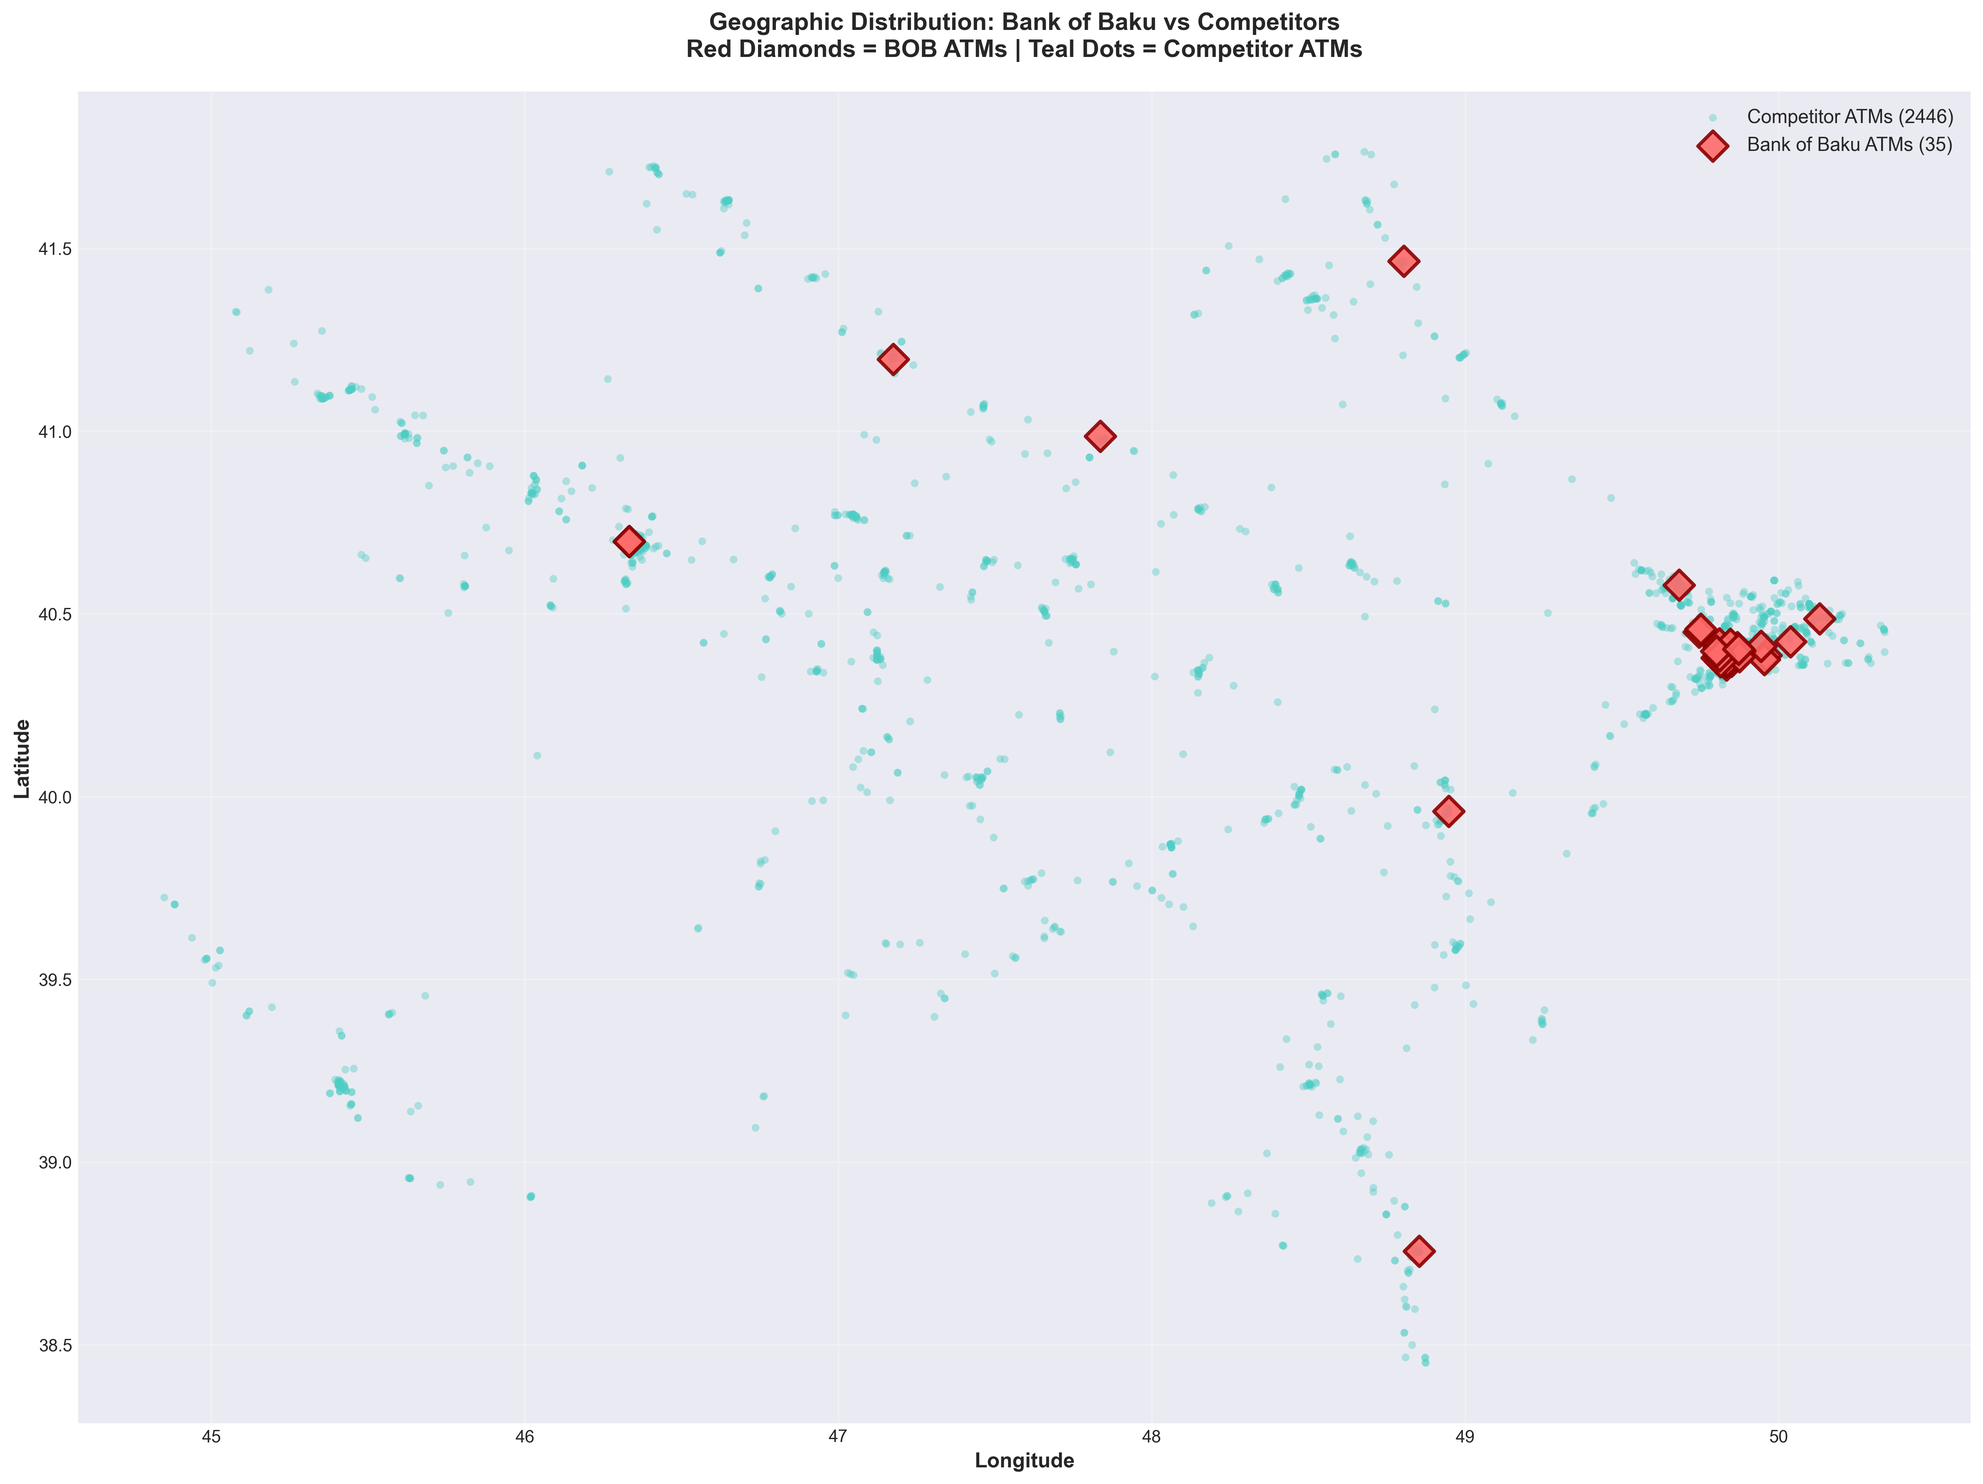
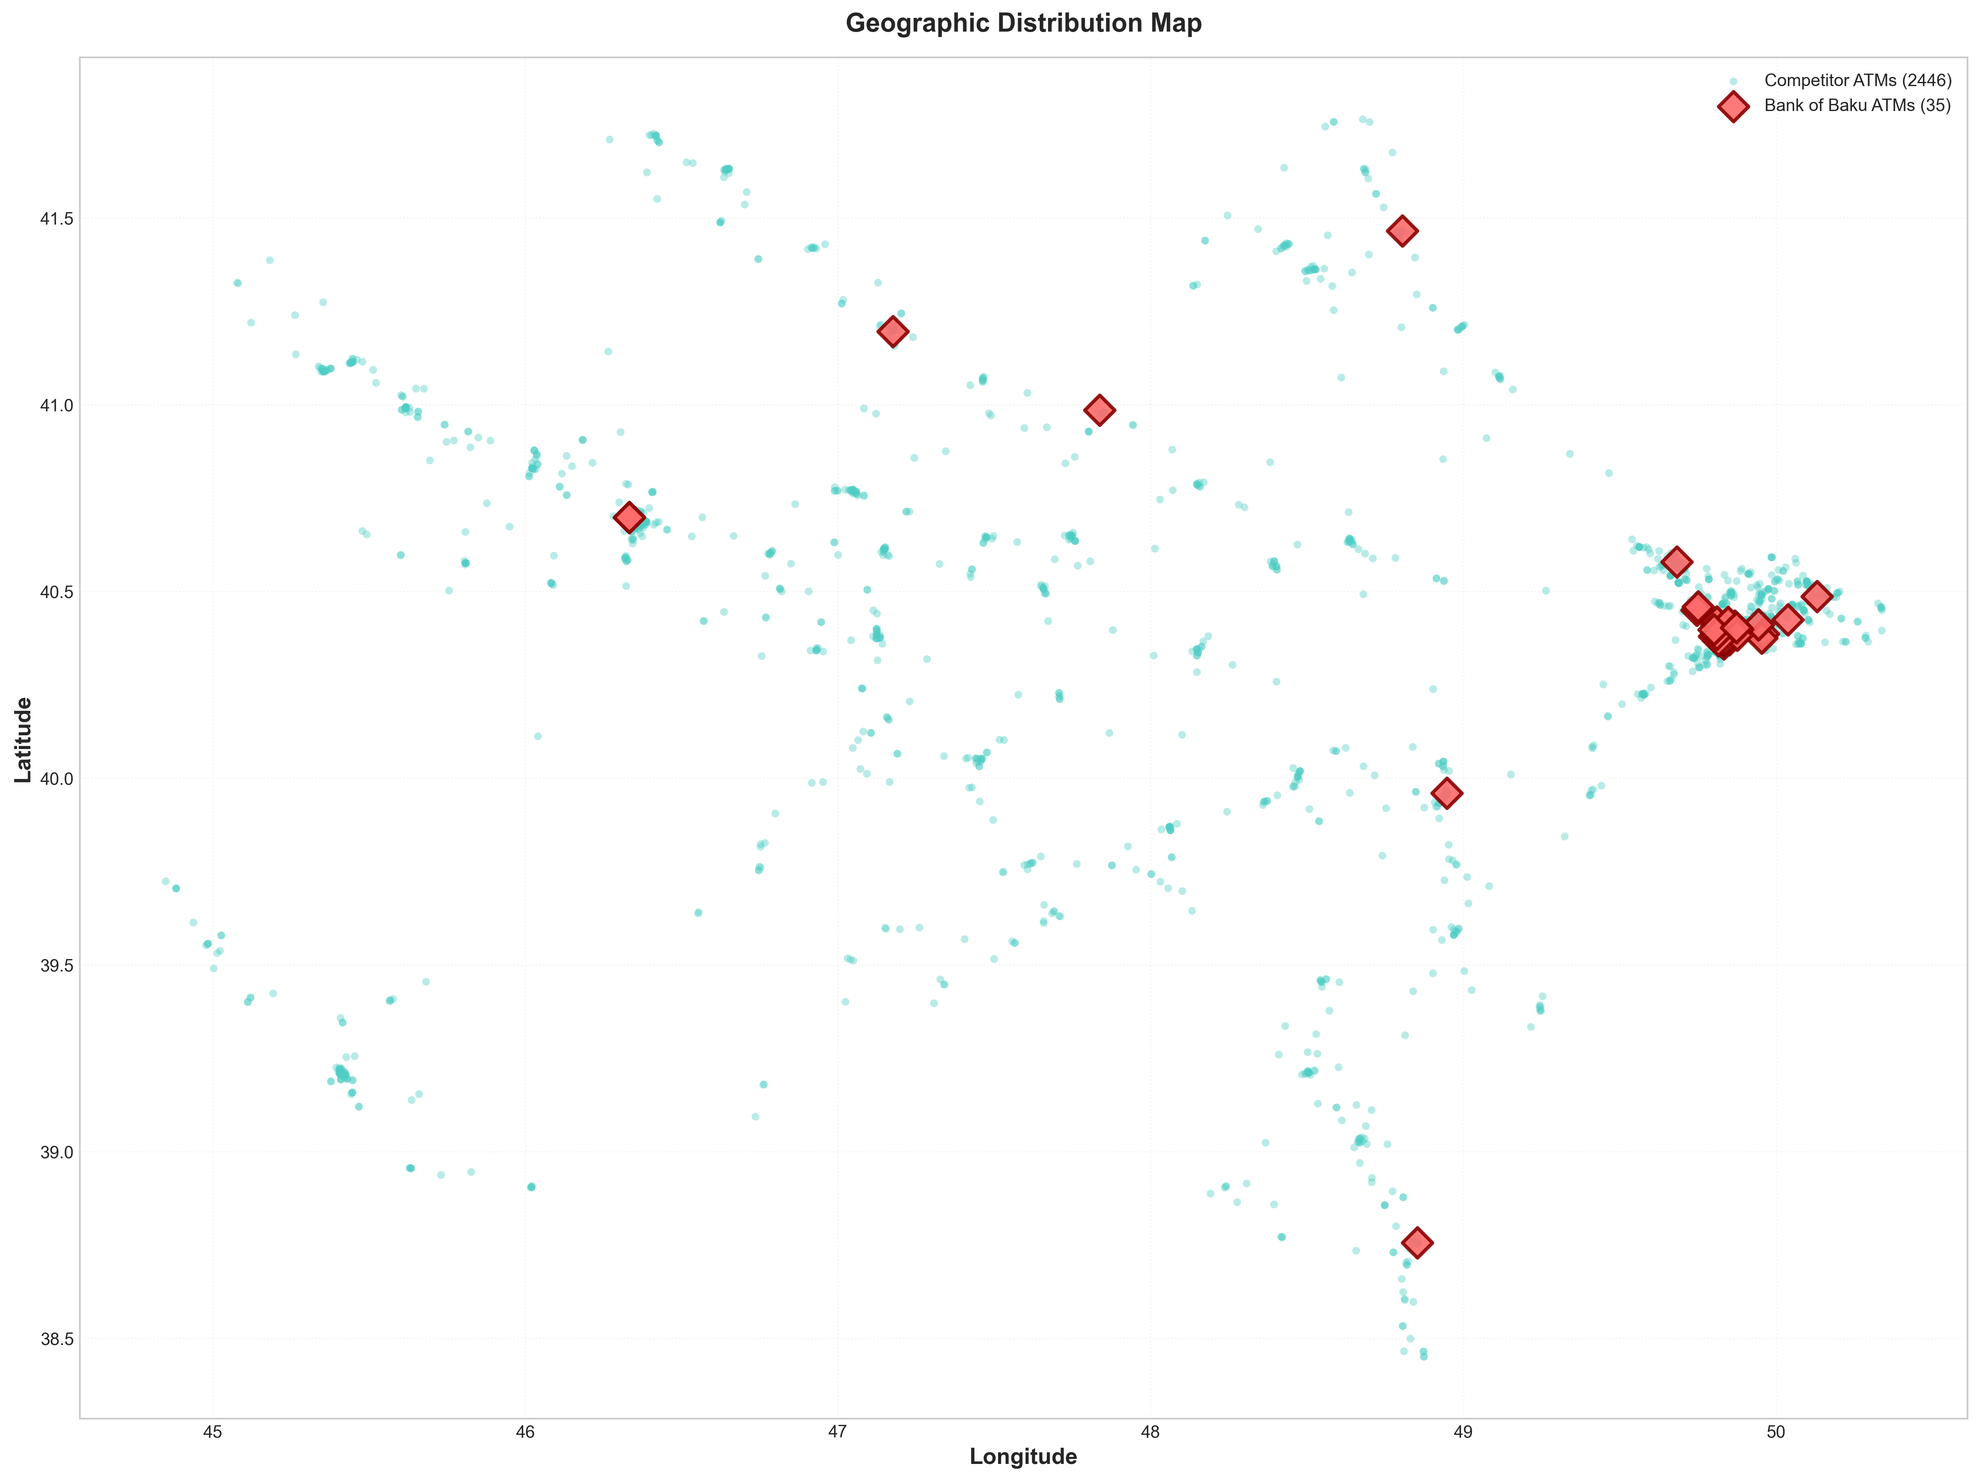
init
Source: https://github.com/GameHelix/space_invaders/commit/c22dd0ad6fc6d7ff413bb4c23b452937064a5800

diff --git a/earlier/GameHelix/space_invaders/scripts/analyze_for_bob.py b/earlier/GameHelix/space_invaders/scripts/analyze_for_bob.py
@@ -682,9 +682,9 @@ def chart8_competitor_proximity_analysis(data: List[Dict]) -> None:
         ax1.text(width + 0.5, bar.get_y() + bar.get_height()/2,
                 f'{dist:.1f} km', ha='left', va='center', fontweight='bold', fontsize=10)
 
-    ax1.set_xlabel('Average Distance to Nearest BOB ATM (km)', fontsize=11, fontweight='bold')
-    ax1.set_title('How Close Are Competitors to BOB?\nAverage Distance per Bank', fontsize=12, fontweight='bold')
-    ax1.grid(axis='x', alpha=0.3)
+    ax1.set_xlabel('Avg Distance to BOB (km)', fontsize=12, fontweight='bold')
+    ax1.set_title('Competitor Proximity to BOB', fontsize=13, fontweight='bold')
+    ax1.grid(axis='x', alpha=0.2, linestyle='--')
 
     # Right: Number of competitor ATMs within 1km of BOB
     close_counts = {}
@@ -714,9 +714,9 @@ def chart8_competitor_proximity_analysis(data: List[Dict]) -> None:
         ax2.text(width + 1, bar.get_y() + bar.get_height()/2,
                 f'{count}', ha='left', va='center', fontweight='bold', fontsize=10)
 
-    ax2.set_xlabel('Number of ATMs Within 1km of BOB', fontsize=11, fontweight='bold')
-    ax2.set_title('Direct Competition Intensity\nCompetitor ATMs Within 1km of BOB', fontsize=12, fontweight='bold')
-    ax2.grid(axis='x', alpha=0.3)
+    ax2.set_xlabel('ATMs Within 1km of BOB', fontsize=12, fontweight='bold')
+    ax2.set_title('Direct Competition Count', fontsize=13, fontweight='bold')
+    ax2.grid(axis='x', alpha=0.2, linestyle='--')
 
     plt.tight_layout()
     plt.savefig('charts/8_competitor_proximity_analysis.png', dpi=300, bbox_inches='tight')
@@ -771,36 +771,33 @@ def chart9_location_priority_matrix(data: List[Dict]) -> None:
     bob_dists = [loc['bob_distance'] for loc in scored_locations]
     comp_dens = [loc['competitor_density'] for loc in scored_locations]
 
-    scatter = ax.scatter(bob_dists, comp_dens, c=bob_dists, s=100, alpha=0.6,
-                        cmap='RdYlGn', edgecolors='black', linewidths=0.5)
+    scatter = ax.scatter(bob_dists, comp_dens, c=bob_dists, s=80, alpha=0.5,
+                        cmap='RdYlGn', edgecolors='black', linewidths=0.3)
 
-    plt.colorbar(scatter, ax=ax, label='Distance from BOB (km)')
+    cbar = plt.colorbar(scatter, ax=ax, label='Distance (km)')
+    cbar.ax.tick_params(labelsize=10)
 
-    # Add quadrant labels
-    ax.axhline(y=10, color='gray', linestyle='--', alpha=0.5)
-    ax.axvline(x=5, color='gray', linestyle='--', alpha=0.5)
+    # Add quadrant lines
+    ax.axhline(y=10, color='gray', linestyle='--', alpha=0.3, linewidth=2)
+    ax.axvline(x=5, color='gray', linestyle='--', alpha=0.3, linewidth=2)
 
-    ax.text(8, 18, 'HIGH PRIORITY\nHigh Demand\nNo BOB Coverage',
-            fontsize=11, fontweight='bold', ha='center',
-            bbox=dict(boxstyle='round', facecolor='lightgreen', alpha=0.8))
+    # Simplified quadrant labels
+    ax.text(8, 18, 'HIGH\nPRIORITY', fontsize=10, fontweight='bold', ha='center',
+            bbox=dict(boxstyle='round', facecolor='lightgreen', alpha=0.7, pad=0.5))
 
-    ax.text(2, 18, 'COMPETITIVE\nHigh Demand\nBOB Present',
-            fontsize=11, fontweight='bold', ha='center',
-            bbox=dict(boxstyle='round', facecolor='yellow', alpha=0.8))
+    ax.text(2, 18, 'COMPETITIVE', fontsize=10, fontweight='bold', ha='center',
+            bbox=dict(boxstyle='round', facecolor='yellow', alpha=0.7, pad=0.5))
 
-    ax.text(8, 2, 'LOW PRIORITY\nLow Demand\nNo BOB Coverage',
-            fontsize=11, fontweight='bold', ha='center',
-            bbox=dict(boxstyle='round', facecolor='lightcoral', alpha=0.8))
+    ax.text(8, 2, 'LOW\nPRIORITY', fontsize=10, fontweight='bold', ha='center',
+            bbox=dict(boxstyle='round', facecolor='lightcoral', alpha=0.7, pad=0.5))
 
-    ax.text(2, 2, 'SATURATED\nLow Demand\nBOB Present',
-            fontsize=11, fontweight='bold', ha='center',
-            bbox=dict(boxstyle='round', facecolor='lightgray', alpha=0.8))
+    ax.text(2, 2, 'SATURATED', fontsize=10, fontweight='bold', ha='center',
+            bbox=dict(boxstyle='round', facecolor='lightgray', alpha=0.7, pad=0.5))
 
-    ax.set_xlabel('Distance to Nearest BOB ATM (km)', fontsize=12, fontweight='bold')
-    ax.set_ylabel('Number of Nearby Competitors (within 1km)', fontsize=12, fontweight='bold')
-    ax.set_title('Strategic Location Priority Matrix\nHigh Demand + No BOB = Best Opportunities',
-                fontsize=14, fontweight='bold', pad=20)
-    ax.grid(True, alpha=0.3)
+    ax.set_xlabel('Distance to BOB (km)', fontsize=13, fontweight='bold')
+    ax.set_ylabel('Competitor Density (within 1km)', fontsize=13, fontweight='bold')
+    ax.set_title('Location Priority Matrix', fontsize=15, fontweight='bold', pad=15)
+    ax.grid(True, alpha=0.2, linestyle=':')
 
     plt.tight_layout()
     plt.savefig('charts/9_location_priority_matrix.png', dpi=300, bbox_inches='tight')
@@ -862,25 +859,14 @@ def chart10_market_penetration_efficiency(data: List[Dict]) -> None:
 
     # Add bank labels
     for bank, count, spacing in zip(banks, counts, spacings):
-        label = 'BOB' if bank == 'Bank of Baku' else bank.replace('Bank', '').strip()[:10]
+        label = 'BOB' if bank == 'Bank of Baku' else bank.replace('Bank', '').replace('Respublika', 'Resp').strip()[:8]
         ax.annotate(label, (count, spacing), fontsize=9, fontweight='bold',
                    ha='center', va='center')
 
-    ax.set_xlabel('Number of ATMs', fontsize=12, fontweight='bold')
-    ax.set_ylabel('Average Spacing Between ATMs (km)', fontsize=12, fontweight='bold')
-    ax.set_title('Market Penetration Efficiency Analysis\nBubble Size = Coverage Score (ATMs per km²)',
-                fontsize=14, fontweight='bold', pad=20)
-    ax.grid(True, alpha=0.3)
-
-    # Add insight box
-    bob_spacing = bank_metrics.get('Bank of Baku', {}).get('avg_spacing', 0)
-    best_spacing = min(spacings)
-    insight = f"BOB Spacing: {bob_spacing:.1f} km\nBest in Market: {best_spacing:.1f} km\n"
-    insight += "Lower spacing = Better coverage density"
-
-    ax.text(0.02, 0.98, insight, transform=ax.transAxes,
-            bbox=dict(boxstyle='round', facecolor='wheat', alpha=0.9),
-            verticalalignment='top', fontsize=10, fontweight='bold')
+    ax.set_xlabel('Total ATMs', fontsize=13, fontweight='bold')
+    ax.set_ylabel('Avg Spacing (km)', fontsize=13, fontweight='bold')
+    ax.set_title('Market Penetration Efficiency', fontsize=15, fontweight='bold', pad=15)
+    ax.grid(True, alpha=0.2, linestyle=':')
 
     plt.tight_layout()
     plt.savefig('charts/10_market_penetration_efficiency.png', dpi=300, bbox_inches='tight')
@@ -934,22 +920,23 @@ def chart11_competitor_coexistence_analysis(data: List[Dict]) -> None:
 
     im = ax.imshow(coexistence_matrix, cmap='YlOrRd', aspect='auto')
 
-    # Set ticks and labels
+    # Set ticks and labels - shortened names
+    bank_labels = [b.replace('Bank', '').replace('Respublika', 'Resp').strip()[:12] for b in banks]
     ax.set_xticks(np.arange(len(banks)))
     ax.set_yticks(np.arange(len(banks)))
-    ax.set_xticklabels([b.replace('Bank', '').strip()[:15] for b in banks], rotation=45, ha='right')
-    ax.set_yticklabels([b.replace('Bank', '').strip()[:15] for b in banks])
+    ax.set_xticklabels(bank_labels, rotation=45, ha='right', fontsize=10)
+    ax.set_yticklabels(bank_labels, fontsize=10)
 
-    # Add values
+    # Add values only if significant
     for i in range(len(banks)):
         for j in range(len(banks)):
-            if i != j:
-                text = ax.text(j, i, int(coexistence_matrix[i, j]),
-                             ha="center", va="center", color="black", fontsize=9)
+            if i != j and coexistence_matrix[i, j] > 5:
+                ax.text(j, i, int(coexistence_matrix[i, j]),
+                       ha="center", va="center", color="white", fontsize=9, fontweight='bold')
 
-    plt.colorbar(im, ax=ax, label='Number of Co-located ATMs')
-    ax.set_title(f'Competitor Co-existence Analysis\nATMs Within {threshold}km of Each Other',
-                fontsize=14, fontweight='bold', pad=20)
+    cbar = plt.colorbar(im, ax=ax, label='Co-locations')
+    cbar.ax.tick_params(labelsize=10)
+    ax.set_title(f'Competitor Co-location Matrix ({threshold}km)', fontsize=15, fontweight='bold', pad=15)
 
     plt.tight_layout()
     plt.savefig('charts/11_competitor_coexistence_analysis.png', dpi=300, bbox_inches='tight')
@@ -1035,19 +1022,18 @@ def chart12_expansion_roi_ranking(data: List[Dict]) -> None:
         ax.text(width + 1, bar.get_y() + bar.get_height()/2,
                f'{score:.0f}', ha='left', va='center', fontweight='bold', fontsize=8)
 
-    ax.set_xlabel('ROI Score (0-100)', fontsize=12, fontweight='bold')
-    ax.set_title('Top 30 Expansion Locations by ROI Score\nScoring: Gap (30%) + Demand (40%) + Retail (30%)',
-                fontsize=14, fontweight='bold', pad=20)
-    ax.grid(axis='x', alpha=0.3)
+    ax.set_xlabel('ROI Score', fontsize=13, fontweight='bold')
+    ax.set_title('Top 30 Expansion Locations (ROI Ranked)', fontsize=15, fontweight='bold', pad=15)
+    ax.grid(axis='x', alpha=0.2, linestyle='--')
 
     # Legend
     from matplotlib.patches import Patch
     legend_elements = [
-        Patch(facecolor='#2ECC71', label='Excellent (70-100)'),
+        Patch(facecolor='#2ECC71', label='Excellent (70+)'),
         Patch(facecolor='#F39C12', label='Good (50-69)'),
         Patch(facecolor='#E74C3C', label='Fair (<50)')
     ]
-    ax.legend(handles=legend_elements, loc='lower right')
+    ax.legend(handles=legend_elements, loc='lower right', fontsize=10, framealpha=0.95, edgecolor='black')
 
     plt.tight_layout()
     plt.savefig('charts/12_expansion_roi_ranking.png', dpi=300, bbox_inches='tight')

diff --git a/earlier/GameHelix/space_invaders/README.md b/earlier/GameHelix/space_invaders/README.md
@@ -187,6 +187,139 @@ These 20 locations represent immediate partnership opportunities that would sign
 
 ---
 
+## 8. Competitor Proximity Analysis
+
+### Understanding Direct Competition
+
+![Competitor Proximity Analysis](charts/8_competitor_proximity_analysis.png)
+
+This dual-panel analysis reveals BOB's competitive positioning:
+
+**Left Panel - Average Distance to BOB:**
+Shows how far each competitor's ATMs are from the nearest BOB location on average. Higher distances indicate markets where BOB has no presence.
+
+**Right Panel - Direct Competition Count:**
+Shows how many competitor ATMs are within 1km of BOB locations, indicating direct head-to-head competition intensity.
+
+**Key Insights:**
+- Identifies which competitors BOB directly competes with
+- Reveals which banks have extensive coverage in areas BOB doesn't serve
+- Shows competitive intensity around existing BOB locations
+- Helps prioritize whether to strengthen existing locations or expand to new areas
+
+---
+
+## 9. Strategic Location Priority Matrix
+
+### Data-Driven Prioritization Framework
+
+![Location Priority Matrix](charts/9_location_priority_matrix.png)
+
+This scatter plot uses a 4-quadrant framework to prioritize expansion locations:
+
+**Axes:**
+- **X-Axis**: Distance from nearest BOB ATM (coverage gap)
+- **Y-Axis**: Number of nearby competitors (proven demand)
+
+**Quadrants:**
+1. **HIGH PRIORITY** (Top-Right): Far from BOB + High competitor density = Best opportunities
+2. **COMPETITIVE** (Top-Left): Near BOB + High density = Strengthen existing presence
+3. **LOW PRIORITY** (Bottom-Right): Far from BOB + Low density = Unproven markets
+4. **SATURATED** (Bottom-Left): Near BOB + Low density = Already covered
+
+**Strategic Value:**
+- Mathematically ranks 500+ locations by expansion potential
+- Green zones = highest ROI opportunities
+- Avoids low-demand areas that may not justify ATM deployment costs
+- Balances market coverage with proven customer demand
+
+---
+
+## 10. Market Penetration Efficiency
+
+### Coverage Density Comparison
+
+![Market Penetration Efficiency](charts/10_market_penetration_efficiency.png)
+
+This bubble chart analyzes how efficiently each bank covers the market:
+
+**Metrics:**
+- **X-Axis**: Total number of ATMs (volume)
+- **Y-Axis**: Average spacing between ATMs (density)
+- **Bubble Size**: Coverage efficiency score (ATMs per km²)
+
+**Key Findings:**
+- **Lower Y-values** = Better coverage density (ATMs closer together)
+- **Larger bubbles** = More efficient market penetration
+- Shows if BOB's ATMs are too spread out or optimally clustered
+- Reveals competitors' deployment strategies
+
+**BOB's Position:**
+With only 35 ATMs, BOB likely has high spacing (spread thin), while leaders like Kapital Bank and ABB Bank have achieved dense, efficient coverage in key markets.
+
+**Actionable Insight:**
+Focus on clustering new ATMs in high-value areas rather than spreading thinly across the country. Build density in 3-5 key cities before expanding regionally.
+
+---
+
+## 11. Competitor Co-location Matrix
+
+### Market Validation Through Competitor Behavior
+
+![Competitor Co-location Analysis](charts/11_competitor_coexistence_analysis.png)
+
+This heatmap reveals which competitors tend to co-locate (within 500m), indicating validated high-demand areas:
+
+**How to Read:**
+- Numbers show how many times each pair of banks co-locate
+- **Hot spots** (darker red, higher numbers) = multiple banks see opportunity
+- When 3+ banks cluster, demand is strongly validated
+
+**Strategic Application:**
+- **Follow the leaders**: Where Kapital Bank + ABB Bank + others cluster = proven market
+- Reduces risk by targeting already-validated locations
+- Identifies "banking districts" with high transaction volume
+- Shows competitive dynamics (who competes with whom)
+
+**BOB Strategy:**
+Target locations where 3+ competitors co-exist. These areas have:
+- Proven customer demand
+- High transaction volumes
+- Established banking behavior
+- Lower market education needed
+
+---
+
+## 12. Top 30 Expansion Locations (ROI Ranked)
+
+### Weighted Scoring Model for Deployment Priority
+
+![ROI Ranking](charts/12_expansion_roi_ranking.png)
+
+This chart provides an **actionable ranked list** using a weighted scoring system:
+
+**Scoring Formula (0-100):**
+- **30% Weight**: Coverage Gap (distance from BOB)
+- **40% Weight**: Proven Demand (competitor density within 1km)
+- **30% Weight**: Retail Proximity (foot traffic potential)
+
+**Color Coding:**
+- 🟢 **Green (70-100)**: Excellent opportunities - deploy immediately
+- 🟠 **Orange (50-69)**: Good opportunities - Phase 2 targets
+- 🔴 **Red (<50)**: Fair opportunities - lower priority
+
+**How This Differs from Chart 7:**
+- Chart 7: Simple distance ranking (retail focus)
+- Chart 12: **Multi-factor ROI score** combining gap + demand + retail
+
+**Immediate Action:**
+The top 10-15 locations on this chart should be BOB's Phase 1 deployment targets. These locations offer the optimal combination of:
+- Unserved by BOB (won't cannibalize existing ATMs)
+- Served by competitors (proven customer demand)
+- Near retail partners (deployment cost efficiency)
+
+---
+
 ## Strategic Recommendations
 
 ### 1. 🎯 IMMEDIATE PRIORITY: Fill Coverage Gaps
@@ -479,10 +612,25 @@ Bank of Baku can realistically achieve **100+ ATM deployments in Year 1**, growi
 
 ### Files & Resources
 
-- **Charts**: All visualizations stored in `/charts` folder
+- **Charts**: 12 strategic visualizations in `/charts` folder
 - **Data**: Source data in `/data` folder (10 CSV files)
 - **Scripts**: Analysis scripts in `/scripts` folder
 - **Detailed Report**: `charts/INSIGHTS_REPORT.txt`
+
+### Complete Chart List
+
+1. **Bank ATM Coverage Comparison** - Market share overview
+2. **Geographic Distribution Map** - BOB vs competitor locations
+3. **Competitor Density Heatmap** - High-demand area identification
+4. **Supermarket Partnership Opportunities** - Retail partnership locations
+5. **Coverage Gap Analysis** - Priority expansion areas (>2km from BOB)
+6. **Regional Market Share** - Quadrant-based geographic analysis
+7. **Top 20 Retail Opportunities** - Specific partnership targets
+8. **Competitor Proximity Analysis** - Direct competition measurement
+9. **Location Priority Matrix** - 4-quadrant prioritization framework
+10. **Market Penetration Efficiency** - Coverage density comparison
+11. **Competitor Co-location Matrix** - Market validation heatmap
+12. **Top 30 ROI-Ranked Locations** - Weighted scoring for deployment
 
 ### Contact & Questions
 
